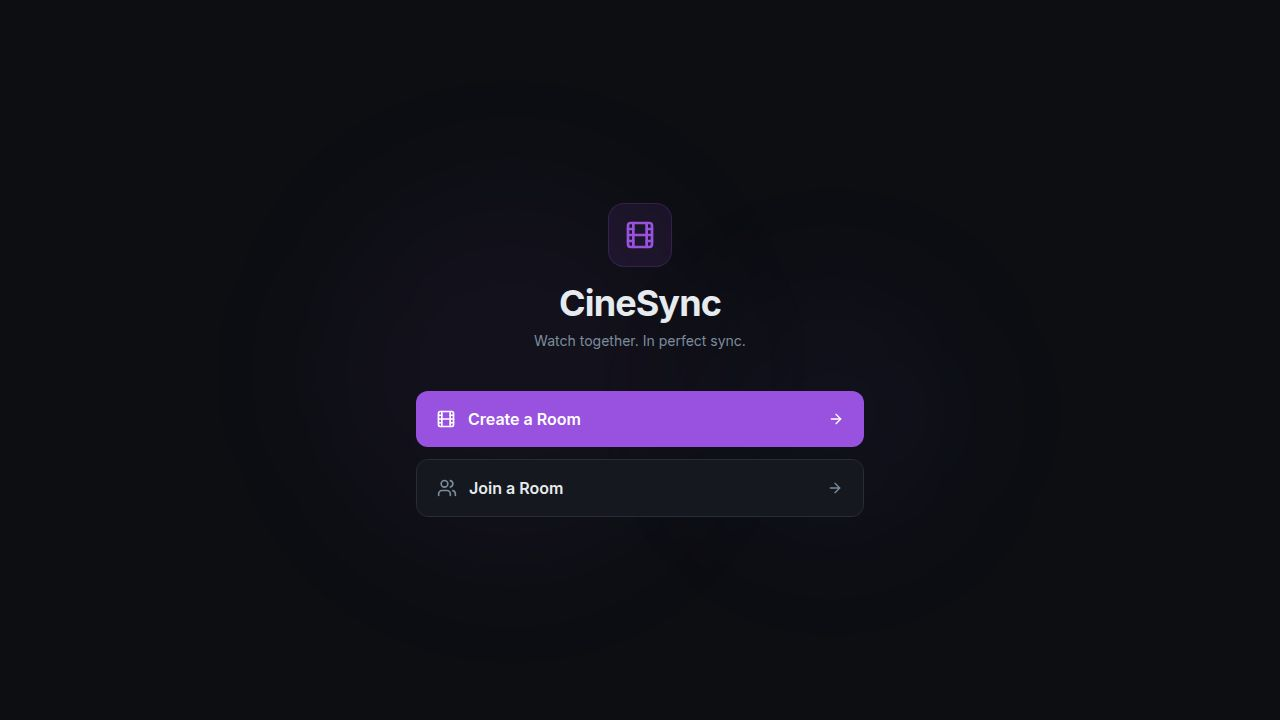
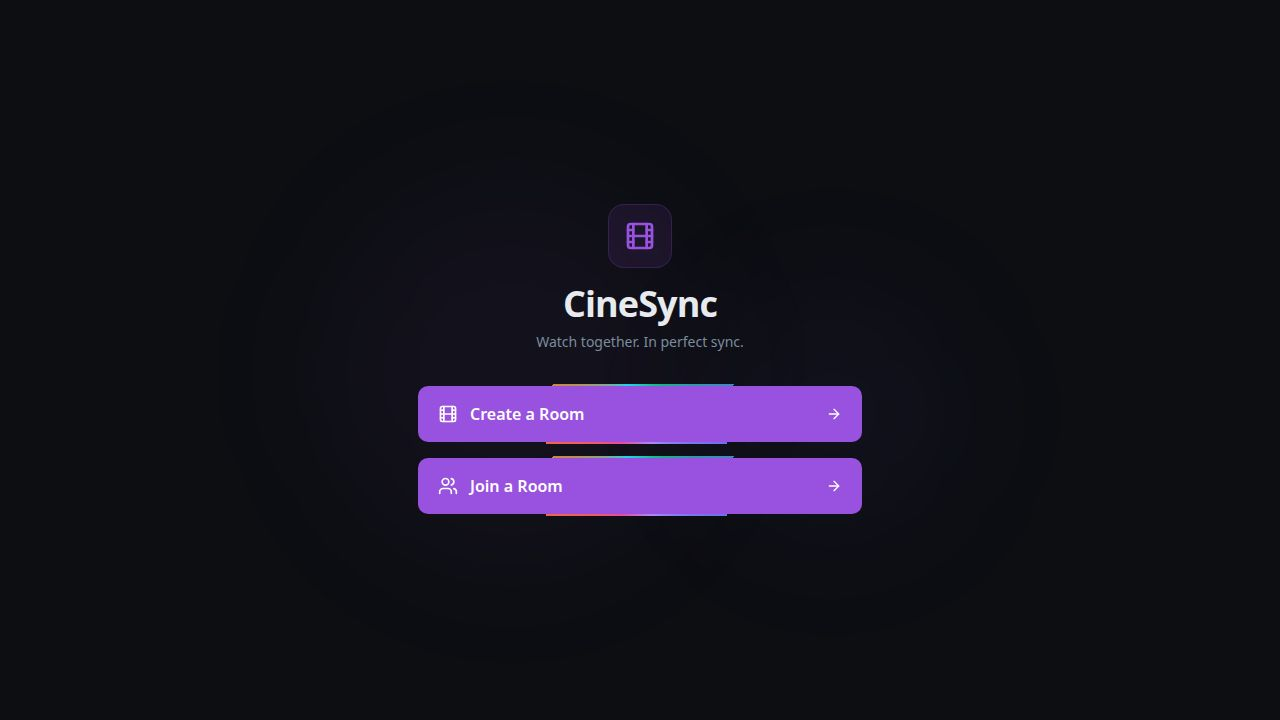
Improve audio playback and restore functionality on iOS devices
Fixes an issue where audio would remain low on iOS after using the microphone by extending the silent audio trick duration, replacing the problematic pause/play video restoration with a volume bounce, and enhancing the restore sequence with more frequent and longer-lasting audio restoration waves.

Replit-Commit-Author: Agent
Replit-Commit-Session-Id: 67f38543-b103-4dca-be67-43a016d4066a
Replit-Commit-Checkpoint-Type: full_checkpoint
Replit-Commit-Event-Id: aa752141-f3af-42dc-ad05-d90d0fc560d4
Replit-Commit-Screenshot-Url: https://storage.googleapis.com/screenshot-production-us-central1/07c029ae-29e7-4d26-8c00-455e356fea4c/67f38543-b103-4dca-be67-43a016d4066a/oYizwZd
Replit-Helium-Checkpoint-Created: true

Changed region(s): [[0.3125, 0.5194, 0.6875, 0.7333], [0.4062, 0.3972, 0.5938, 0.4889], [0.4688, 0.3056, 0.5312, 0.3361]]

diff --git a/artifacts/watch-party/src/pages/room.tsx b/artifacts/watch-party/src/pages/room.tsx
@@ -3218,41 +3218,34 @@ export default function Room() {
       if (nav.audioSession) nav.audioSession.type = "playback";
     } catch { /* ignore — Safari 17+ only */ }
 
-    // Step 2: silent audio trick — يجبر iOS يرفع الـ session ducking فوراً
+    // Step 2: silent audio trick — يجبر iOS يرفع الـ session ducking فوراً.
+    // [FIX-IOS-SILENT-DURATION] Buffer كان 1 sample (0.045ms) — iOS مش بيلاحظه.
+    // رفعناه لـ 0.5 ثانية عشان iOS يتعرف على الـ session ويعمل switch فعلي.
     const forceIOSAudioSessionRestore = () => {
       try {
         const AudioCtxClass = window.AudioContext ||
           (window as unknown as { webkitAudioContext: typeof AudioContext }).webkitAudioContext;
         const silentCtx = new AudioCtxClass();
-        const buf = silentCtx.createBuffer(1, 1, 22050);
+        const duration = Math.ceil(silentCtx.sampleRate * 0.5); // 0.5 ثانية
+        const buf = silentCtx.createBuffer(1, duration, silentCtx.sampleRate);
         const src = silentCtx.createBufferSource();
         src.buffer = buf;
         src.connect(silentCtx.destination);
         src.start(0);
-        // أغلق الـ context بعد ما يشتغل — مش محتاجينه بعد كده
         src.onended = () => silentCtx.close().catch(() => {});
       } catch { /* ignore */ }
     };
 
-    // Step 3: بعد ما iOS يرفع الـ ducking، نعمل pause→play على الفيديو
-    // عشان يعيد ربط الصوت بالـ audio session الجديدة (playback بدل play-and-record)
+    // Step 3: restore صوت الفيديو بـ volume bounce فقط — بدون pause→play.
+    // [FIX-IOS-NO-PAUSE] الكود القديم كان بيعمل v.pause() ثم v.play() جوه setTimeout.
+    // على iOS، v.play() جوه setTimeout مش user gesture → iOS بيرفضها بـ NotAllowedError
+    // والفيديو بيفضل واقف تماماً والصوت بيضيع. الحل: volume bounce فقط بدون pause.
     const restoreVideoAudio = () => {
       const v = videoRef.current;
-      if (v && !v.paused && !v.muted) {
-        const savedTime = v.currentTime;
-        const savedVol = v.volume || 1;
-        v.pause();
-        requestAnimationFrame(() => {
-          v.volume = savedVol;
-          v.currentTime = savedTime;
-          v.play().catch(() => {});
-        });
-      } else if (v && !v.muted) {
-        // لو الفيديو واقف أصلاً — volume bounce كافي
-        const savedVol = v.volume || 1;
-        v.volume = 0.001;
-        requestAnimationFrame(() => { v.volume = savedVol; });
-      }
+      if (!v || v.muted) return;
+      const savedVol = v.volume || 1;
+      v.volume = 0.001;
+      requestAnimationFrame(() => { v.volume = savedVol; });
     };
 
     // Step 4: WebRTC peer audio elements
@@ -3287,28 +3280,30 @@ export default function Room() {
       } catch { /* cross-origin — ignore */ }
     };
 
-    // التسلسل: silent trick أول (يرفع الـ session) → بعدين نرجّع كل مصادر الصوت
-    forceIOSAudioSessionRestore();                          // فوري
-    setTimeout(() => {
+    // [FIX-IOS-RESTORE-SEQUENCE] تسلسل الـ restore:
+    // 1. silent trick فوراً (يبدأ إخبار iOS بالـ session switch)
+    // 2. موجات متكررة كل 200-500ms لمدة 3 ثواني تضمن الـ restore حتى على الأجهزة الأبطأ
+    // 3. volume bounce على الفيديو بدون pause — آمن في كل بيئة
+
+    const restoreAll = () => {
       restoreAudioContext();
-      restorePeerAudio();
-      restoreHyperbeam();
-    }, 100);
-    setTimeout(() => {
-      restoreVideoAudio();   // pause→play بعد 300ms: iOS بيحتاج وقت يطبق الـ session switch
-      restoreHyperbeam();
-    }, 300);
-    setTimeout(() => {
-      forceIOSAudioSessionRestore(); // موجة تانية من الـ silent trick للأجهزة الأبطأ
-      restoreAudioContext();
-      restorePeerAudio();
-      restoreHyperbeam();
-    }, 700);
-    setTimeout(() => {
       restoreVideoAudio();
-      restoreAudioContext();
+      restorePeerAudio();
       restoreHyperbeam();
-    }, 1500);
+    };
+
+    // موجة أولى: فورية
+    forceIOSAudioSessionRestore();
+    restoreAll();
+
+    // موجات متتالية: iOS بيحتاج من 200ms لـ 1.5 ثانية حسب الجهاز والـ iOS version
+    const delays = [200, 500, 900, 1500, 2500];
+    for (const delay of delays) {
+      setTimeout(() => {
+        if (delay === 500 || delay === 1500) forceIOSAudioSessionRestore();
+        restoreAll();
+      }, delay);
+    }
   }, [myMemberId]);
 
 